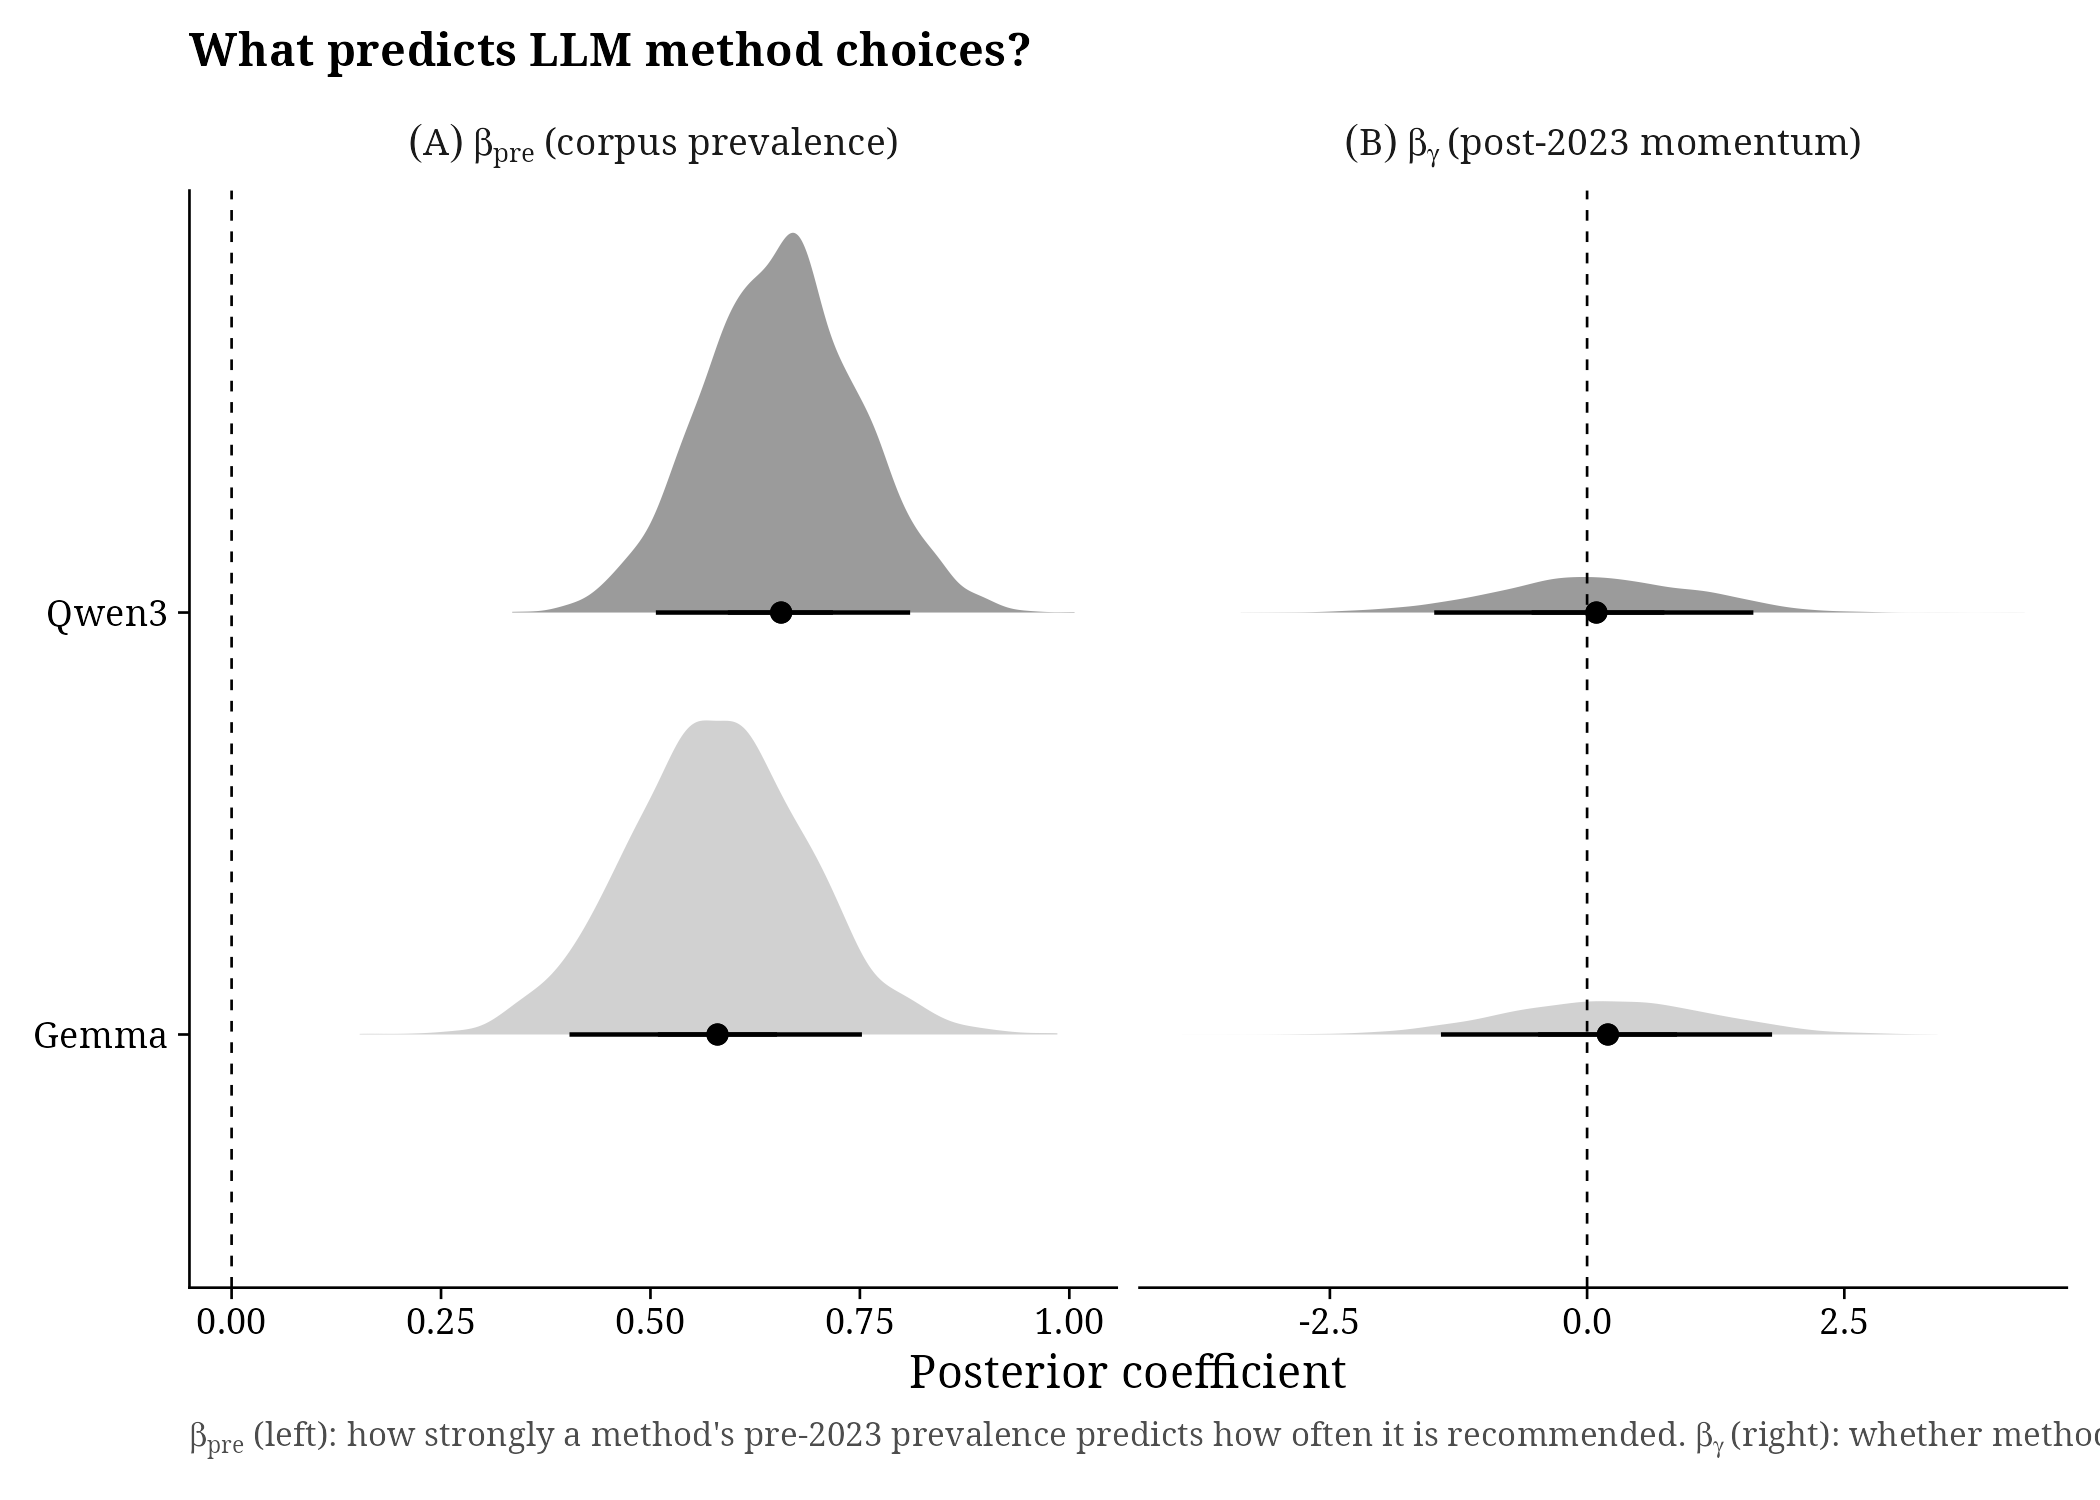
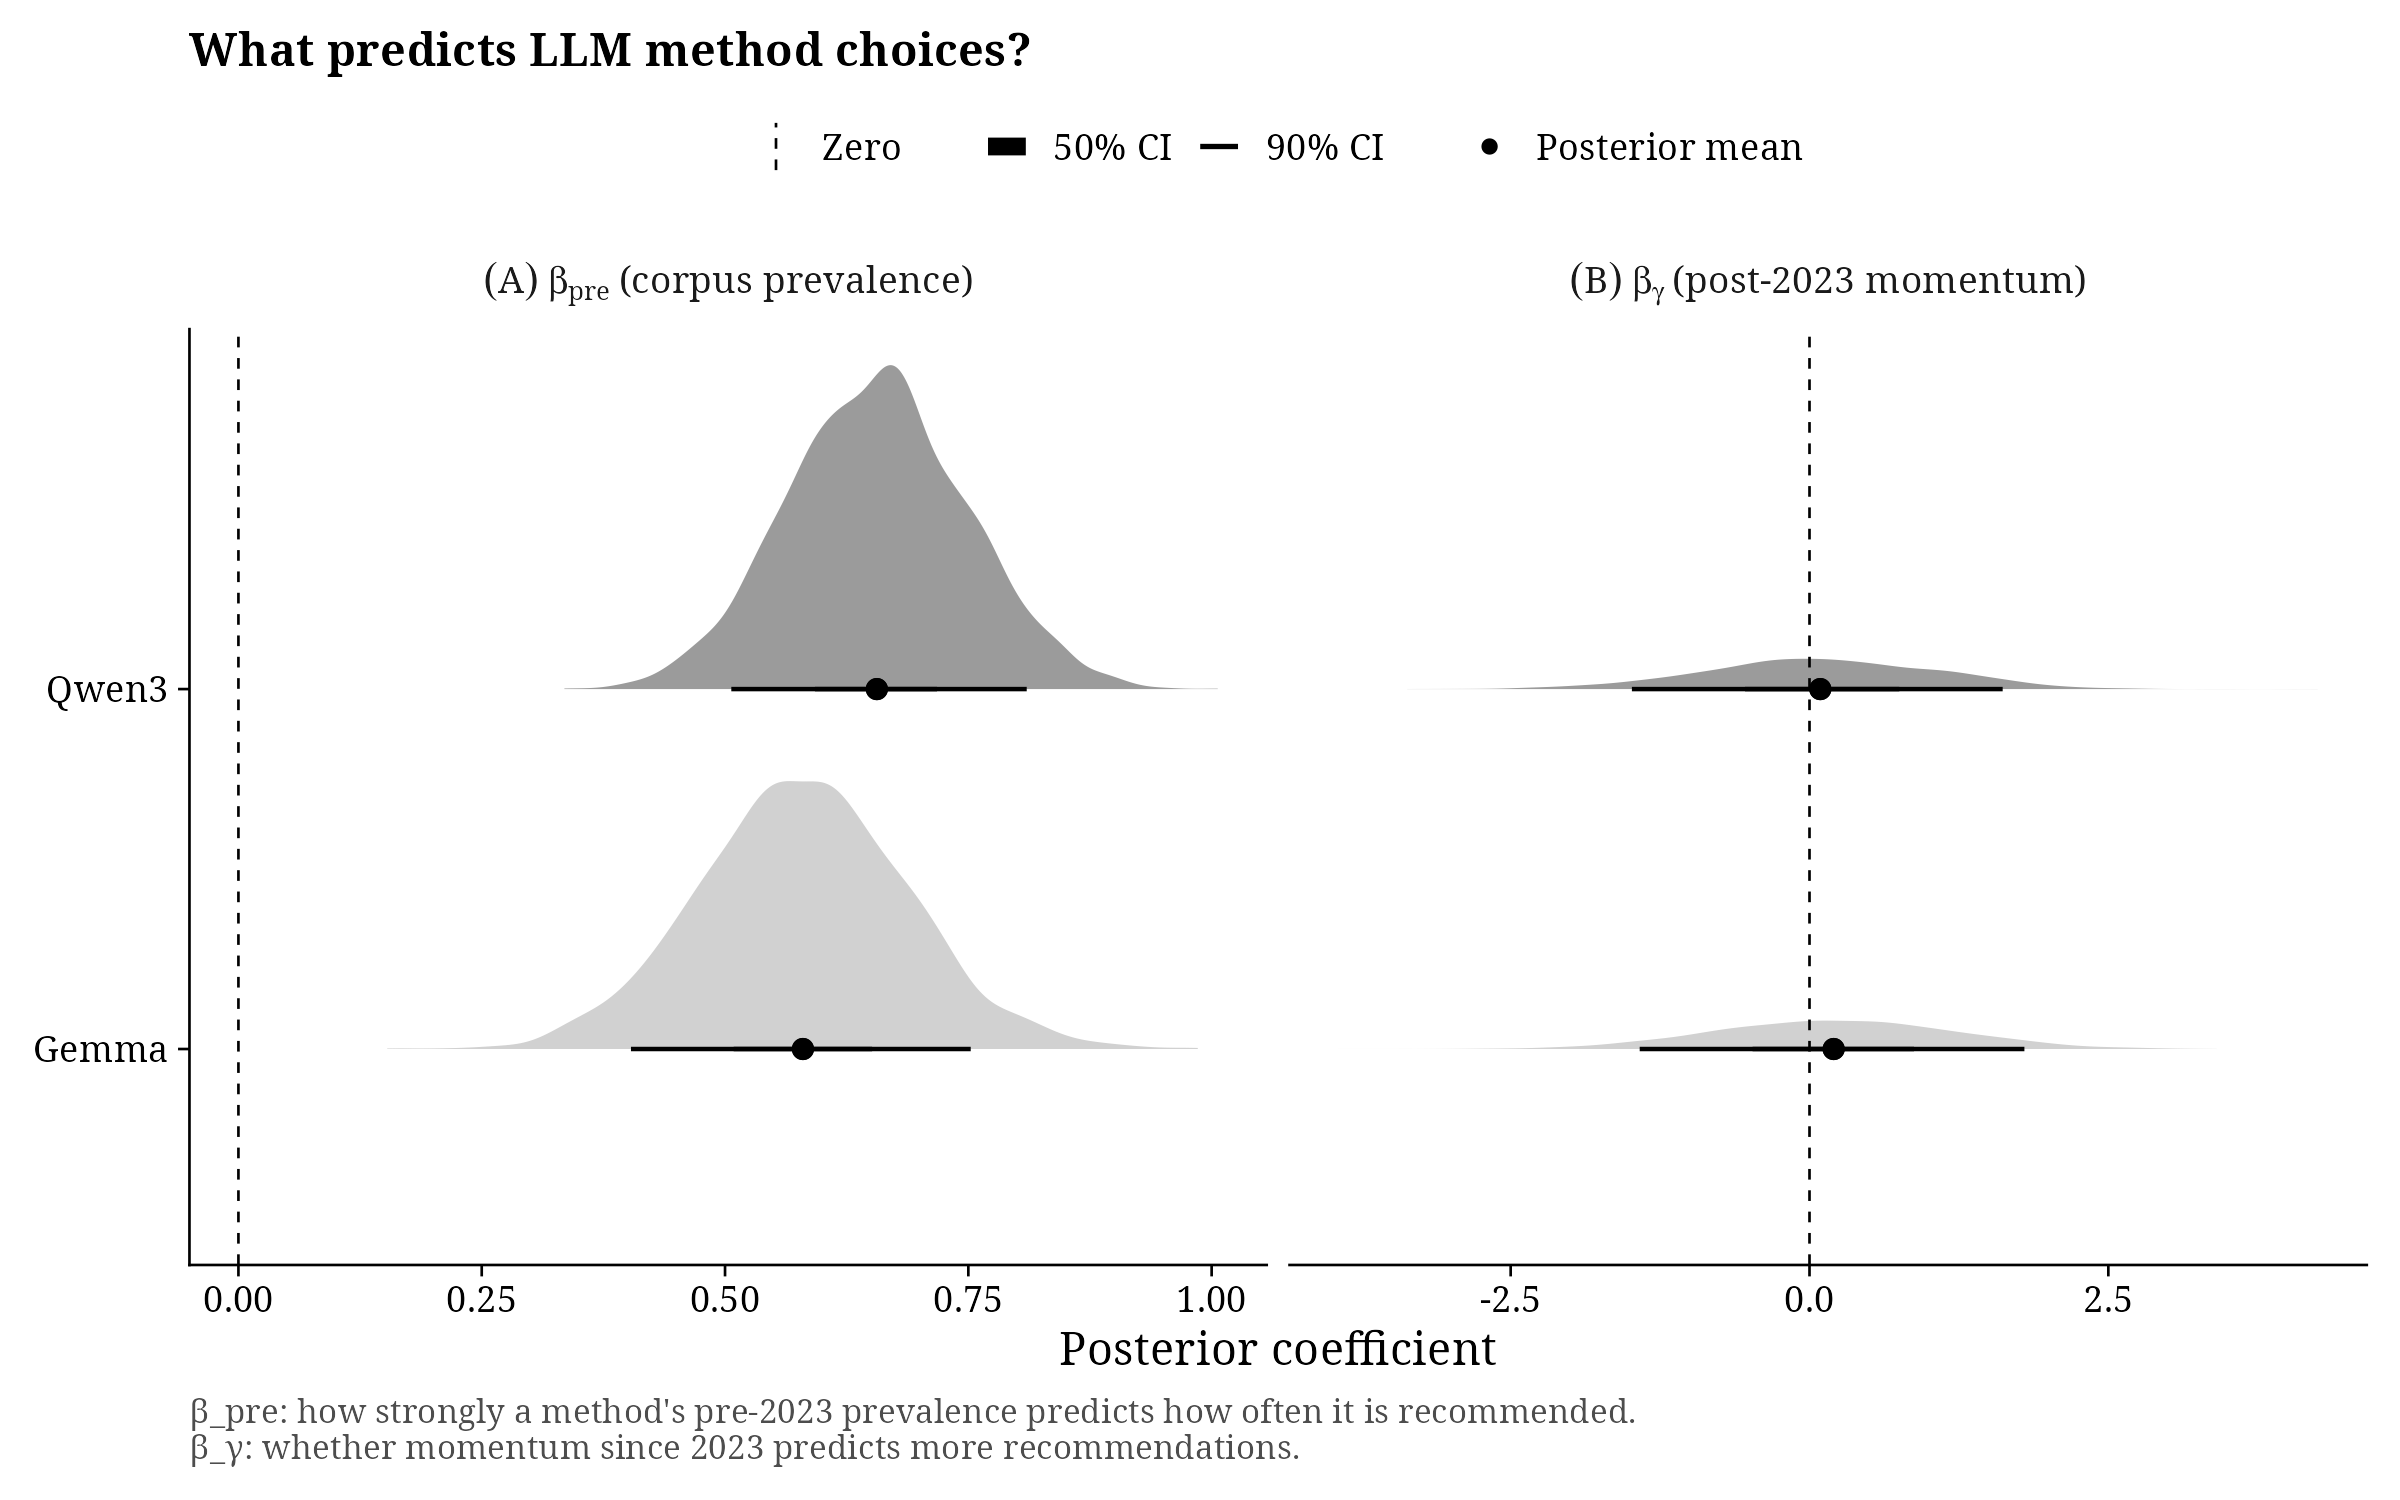
Fix Fig. 5 caption overflow and gamma-dotplot subtitle mismatch
Fig. 5 (fig5_bpre_bgamma_posteriors.png): the caption was a plotmath
expression() that doesn't wrap, so it overflowed the figure width. Replaced
with a proper ggplot legend (zero line, 50%/90% CI, posterior mean) built
from proxy layers, since ggdist's stat_halfeye has no native legend for
those; caption now only states what beta_pre/beta_gamma are. Widened
canvas 7in -> 8in. Updated the proposed manuscript caption in
docs/main_text_figures.md to match (drops the now-redundant encoding
description, defers to the figure legend).

02_extract_plot.R: gamma dotplot subtitle claimed "only methods where 90%
CI excludes zero" even when the sig==0 fallback shows all 242 methods
instead. Subtitle now reflects which case actually rendered.

Rerunning 09_main_text_figures.R for the caption fix also regenerated two
figures that had gone stale since the June refit and were never
regenerated: fig2 (was reading an old fit_phi_free.rds snapshot) and fig4
(was reading the pre-refit gamma_results.csv -- its old gamma annotation
for Network Analysis and Modeling read -0.07, while the manuscript prose
already said -0.08; now they agree).

diff --git a/docs/main_text_figures.md b/docs/main_text_figures.md
@@ -132,7 +132,7 @@ published record so far).
 
 **Section:** Results (mean-collapse test, 4.4 / 3.4.2)
 
-**Manuscript caption:** Posterior distributions from a two-predictor count regression testing what drives LLM method recommendations. β_pre (left panel) measures how strongly a method's pre-2023 prevalence in the literature predicts how often it is recommended; β_γ (right panel) measures whether methods that gained momentum after 2023 are recommended more often. Results shown for both Qwen3 and Gemma. Dashed line: zero. Bands: 50% and 90% credible intervals; point: posterior mean.
+**Manuscript caption:** Posterior distributions from a two-predictor count regression testing what drives LLM method recommendations. β_pre measures how strongly a method's pre-2023 prevalence in the literature predicts how often it is recommended; β_γ measures whether methods that gained momentum after 2023 are recommended more often. Results shown for both Qwen3 and Gemma; see figure legend for the zero line, credible-interval bands, and posterior mean.
 
 **What it shows:** A two-predictor negative binomial regression that separates
 two possible drivers of LLM method concentration. The outcome is n_rec (how many
